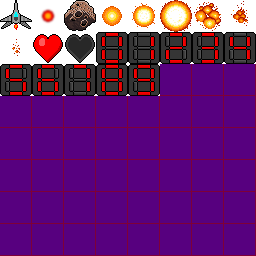
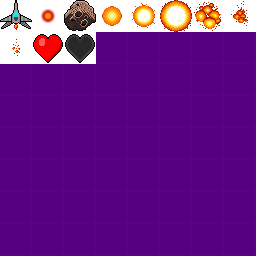
[ADD] system de text, et gfx plus complexe

Changed region(s): [[0.0, 0.125, 1.0, 0.375]]

diff --git a/src/CGraphics.java b/src/CGraphics.java
@@ -10,6 +10,13 @@ import javax.swing.JPanel;
 import java.util.ArrayList;
 
 public class CGraphics extends JPanel {
+	static final int TILESET_CODE_SPRITE = 0;
+	static final int TILESET_CODE_FONT = 1;
+
+	static final int CHAR_START = '0';
+	static final int CHAR_FINAL = 'Z';
+	static final int CHAR_ERR_X = 0;
+	static final int CHAR_ERR_Y = 64;
 	static final int SCREEN_ZOOM = 2;
 	static final int TILE_SIZE = 32;
 	static final int NB_TILE_X = 13;
@@ -17,20 +24,22 @@ public class CGraphics extends JPanel {
 	static final int SCREEN_SIZE_X = NB_TILE_X * TILE_SIZE * SCREEN_ZOOM;
 	static final int SCREEN_SIZE_Y = NB_TILE_Y * TILE_SIZE * SCREEN_ZOOM;
 	public static final int GFXSET_SIZE_SIDE = 8;
+	public static final int FONT_SIZE_SIDE = 8;
 
 	private BufferedImage buf;
 	private BufferedImage m_GFXSet;
+	private BufferedImage m_font;
 
 	CGraphics() {
 		setPreferredSize(new Dimension(SCREEN_SIZE_X, SCREEN_SIZE_Y));
 		buf = new BufferedImage(SCREEN_SIZE_X, SCREEN_SIZE_Y, BufferedImage.TYPE_INT_RGB);
 	}
 
-	public void setGFXSet(String path) {
+	public void setGFXSet(String gfxPath, String fontPath) {
 		try {
-			m_GFXSet = ImageIO.read(new File(path));
+			m_GFXSet = ImageIO.read(new File(gfxPath));
+			m_font = ImageIO.read(new File(fontPath));
 		} catch (IOException e) {
-			// TODO Auto-generated catch block
 			m_GFXSet = new BufferedImage(CGraphics.GFXSET_SIZE_SIDE * CGraphics.TILE_SIZE,
 					CGraphics.GFXSET_SIZE_SIDE * CGraphics.TILE_SIZE, BufferedImage.TYPE_INT_RGB);
 		}
@@ -56,11 +65,18 @@ public class CGraphics extends JPanel {
 		CSprite tempSprite;
 		for (int i = 0; i < sprites.size(); i++) {
 			tempSprite = sprites.get(i);
-			g.drawImage(
-					m_GFXSet.getSubimage(tempSprite.getPosxInSet(), tempSprite.getPosyInSet(), TILE_SIZE, TILE_SIZE),
-					tempSprite.getPosx() * SCREEN_ZOOM, tempSprite.getPosy() * SCREEN_ZOOM, TILE_SIZE * SCREEN_ZOOM,
-					TILE_SIZE * SCREEN_ZOOM, this);
-
+			if (tempSprite.getTileSetToUse() == TILESET_CODE_SPRITE)
+				g.drawImage(
+						m_GFXSet.getSubimage(tempSprite.getPosxInGraphicSet(), tempSprite.getPosyInGraphicSet(),
+								TILE_SIZE, TILE_SIZE),
+						tempSprite.getPosx() * SCREEN_ZOOM, tempSprite.getPosy() * SCREEN_ZOOM, TILE_SIZE * SCREEN_ZOOM,
+						TILE_SIZE * SCREEN_ZOOM, this);
+			else if(tempSprite.getTileSetToUse() == TILESET_CODE_FONT)
+				g.drawImage(
+						m_font.getSubimage(tempSprite.getPosxInGraphicSet(), tempSprite.getPosyInGraphicSet(),
+								TILE_SIZE, TILE_SIZE),
+						tempSprite.getPosx() * SCREEN_ZOOM, tempSprite.getPosy() * SCREEN_ZOOM, TILE_SIZE * SCREEN_ZOOM,
+						TILE_SIZE * SCREEN_ZOOM, this);
 		}
 
 		// call blast

diff --git a/src/CApp.java b/src/CApp.java
@@ -7,7 +7,7 @@ import javax.swing.UIManager;
 import javax.swing.UnsupportedLookAndFeelException;
 
 public class CApp extends JFrame implements KeyListener {
-	static final String ICON_PATH = "gfx/ship.png";
+	static final String ICON_PATH = "gfx/icon.png";
 	static final long PROCC_REVOVERY = 16;
 
 	private ImageIcon m_icon;
@@ -22,7 +22,7 @@ public class CApp extends JFrame implements KeyListener {
 		m_kbStatus = new CFlag();
 		m_graphics = new CGraphics();
 		m_game = new CGame();
-		m_graphics.setGFXSet(CGame.GFXSET_PATH);
+		m_graphics.setGFXSet(CGame.GFXSET_PATH, CGame.FONT_PATH);
 		setTitle("Mega Jeu de l'univers | ?? fps");
 		add(m_graphics);
 		setResizable(false);
@@ -51,12 +51,12 @@ public class CApp extends JFrame implements KeyListener {
 		m_thread = new Thread() {
 			public void run() {
 				long timeRegulator;
-				long fpsCheck=0;
-				int fpsCount=0;
-				int latencySum=0;
-				
+				long fpsCheck = 0;
+				int fpsCount = 0;
+				int latencySum = 0;
+
 				while (true) {
-					
+
 					fpsCheck = timeRegulator = System.currentTimeMillis();
 					// if(m_game.isRunning())
 					m_game.proccGame(m_kbStatus);
@@ -78,13 +78,13 @@ public class CApp extends JFrame implements KeyListener {
 					} catch (InterruptedException ex) {
 
 					}
-					
-					fpsCheck = System.currentTimeMillis()-fpsCheck;
-					latencySum+=fpsCheck;
-					if(fpsCount++ == 30) {
-						fpsCount=0;
-						setTitle("Mega Jeu de l'univers | " + (int)(1000/(latencySum/30.0)) + " fps");
-						latencySum=0;
+					// affichage fps
+					fpsCheck = System.currentTimeMillis() - fpsCheck;
+					latencySum += fpsCheck;
+					if (fpsCount++ == 30) {
+						fpsCount = 0;
+						setTitle("Mega Jeu de l'univers | " + (int) (1000 / (latencySum / 30.0)) + " fps");
+						latencySum = 0;
 					}
 				}
 			};

diff --git a/src/CText.java b/src/CText.java
@@ -1,0 +1,50 @@
+
+public class CText {
+	private String m_text;
+	private int m_posx;
+	private int m_posy;
+
+	CText(String text, int posx, int posy) {
+		m_text = text.toUpperCase();
+		m_posx = posx;
+		m_posy = posy;
+	}
+
+	public CSprite getSpriteCharAt(int i) {
+		int iTemp = m_text.charAt(i);
+
+		if (iTemp >= CGraphics.CHAR_START && iTemp <= CGraphics.CHAR_FINAL) {
+			iTemp -= CGraphics.CHAR_START;
+			return new CSprite(m_posx + i * CGraphics.TILE_SIZE, m_posy,
+					iTemp % CGraphics.FONT_SIZE_SIDE * CGraphics.TILE_SIZE,
+					iTemp / CGraphics.FONT_SIZE_SIDE * CGraphics.TILE_SIZE, CGraphics.TILESET_CODE_FONT);
+		}
+
+		return new CSprite(m_posx + i * CGraphics.TILE_SIZE, m_posy, CGraphics.CHAR_ERR_X,
+				CGraphics.CHAR_ERR_Y, CGraphics.TILESET_CODE_FONT);
+	}
+
+	public String getText() {
+		return m_text;
+	}
+
+	public int getPosx() {
+		return m_posx;
+	}
+
+	public int getPosy() {
+		return m_posy;
+	}
+
+	public void setText(String text) {
+		m_text = text;
+	}
+
+	public void setPosx(int posx) {
+		m_posx = posx;
+	}
+
+	public void setPosy(int posy) {
+		m_posy = posy;
+	}
+}

diff --git a/src/CSprite.java b/src/CSprite.java
@@ -2,14 +2,16 @@
 public class CSprite {
 	private int m_posx;
 	private int m_posy;
-	private int m_posxInSet;
-	private int m_posyInSet;
+	private int m_posxInGraphicSet;
+	private int m_posyInGraphicSet;
+	private int m_tileSetToUse;
 
-	public CSprite(int posx, int posy, int posxInSet, int posyInSet) {
+	public CSprite(int posx, int posy, int posxInGraphicSet, int posyInGraphicSet, int tileSetToUse) {
 		m_posx = posx;
 		m_posy = posy;
-		m_posxInSet = posxInSet;
-		m_posyInSet = posyInSet;
+		m_posxInGraphicSet = posxInGraphicSet;
+		m_posyInGraphicSet = posyInGraphicSet;
+		m_tileSetToUse = tileSetToUse;
 	}
 
 	public int getPosx() {
@@ -20,11 +22,15 @@ public class CSprite {
 		return m_posy;
 	}
 
-	public int getPosxInSet() {
-		return m_posxInSet;
+	public int getPosxInGraphicSet() {
+		return m_posxInGraphicSet;
 	}
 
-	public int getPosyInSet() {
-		return m_posyInSet;
+	public int getPosyInGraphicSet() {
+		return m_posyInGraphicSet;
+	}
+	
+	public int getTileSetToUse() {
+		return m_tileSetToUse;
 	}
 }

diff --git a/src/CPlayer.java b/src/CPlayer.java
@@ -11,7 +11,7 @@ public class CPlayer {
 	static final int PLAYER_STRAFE_SPEED = (int) Math.ceil((double) Math.sqrt(2) / (double) 2 * (double) PLAYER_SPEED);
 	// static final int PLAYER_FRICTION = 5;
 	static final int PLAYER_SHOT_COOLDOWN = 9;
-	static final int PLAYER_LIFE_MAX = CGraphics.NB_TILE_X;
+	static final int PLAYER_LIFE_MAX = 1;
 	static final int HITBOX = 10;
 
 	public static final int CHAR_POSX_IN_SET = 0;

diff --git a/src/Main.java b/src/Main.java
@@ -1,9 +1,8 @@
 public class Main {
 
 	public static void main(String[] args) {
-
 		CApp app = new CApp();
-		
+
 	}
 
 }
